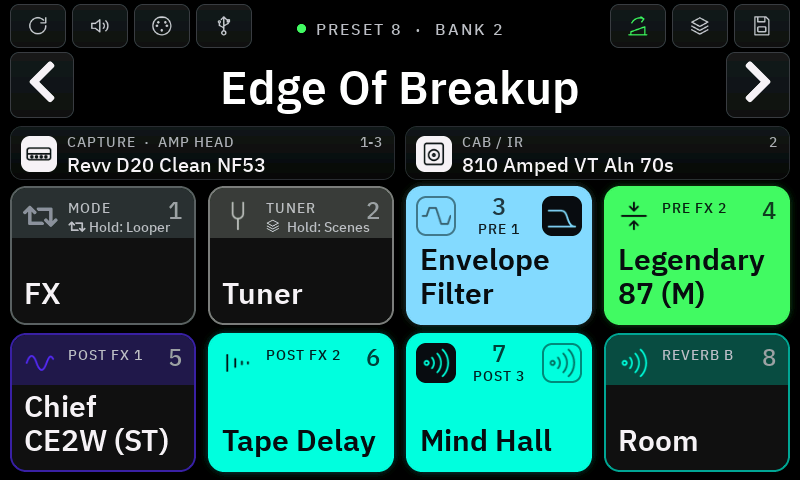
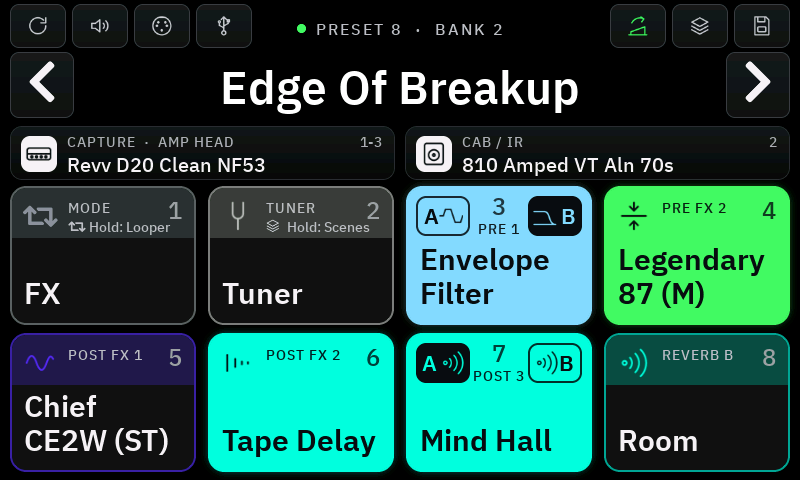
A / B on the tile as lettered chips
Each chip carries its letter and the effect's symbol, the running one filled
and the other framed at full strength: A and B can be told apart when both are
the same effect, and the second one is easy to see.

diff --git a/main/ui.c b/main/ui.c
@@ -783,9 +783,14 @@ static void set_tile(int i, const char *caption, const char *name, uint32_t colo
     set_num_prop(s_tile_caption[i], LV_STYLE_TEXT_ALIGN, LV_TEXT_ALIGN_LEFT);
     set_align_if(s_tile_number[i], LV_ALIGN_TOP_RIGHT, -12, 6);
     set_hidden(s_tile_square_b[i], true);
+    set_num_prop(sq, LV_STYLE_WIDTH, 40);
     set_num_prop(sq, LV_STYLE_BG_OPA, LV_OPA_TRANSP);
     set_num_prop(sq, LV_STYLE_BORDER_WIDTH, 0);
     set_num_prop(img, LV_STYLE_IMAGE_OPA, LV_OPA_COVER);
+    set_align_if(img, LV_ALIGN_CENTER, 0, 0);
+    if (lv_image_get_scale(img) != 256 * 32 / 36) lv_image_set_scale(img, 256 * 32 / 36);
+    set_align_if(sym, LV_ALIGN_CENTER, 0, 0);
+    set_ptr_prop(sym, LV_STYLE_TEXT_FONT, &ui_font_28);
 
     char upper[40];   // captions in small capitals, as the editor's labels
     size_t n = 0;
@@ -801,26 +806,35 @@ static void set_tile(int i, const char *caption, const char *name, uint32_t colo
     set_color_prop(s_tile_name[i], LV_STYLE_TEXT_COLOR, ink);
 }
 
-// One of the two symbols on the tile of a slot with a second effect: the one that runs on a filled square, the
-// other one framed and dimmed.
-static void style_ab_square(lv_obj_t *sq, const nano_fx_model_t *model, const char *letter, bool running, uint32_t mark, uint32_t back)
+// One of the two chips on the tile of a slot with a second effect, as the A | B of a plugin: its letter and the
+// effect's symbol - the one that runs filled, the other one framed. The letter is what tells A from B when both are
+// the same effect with other settings.
+#define AB_CHIP_W 54
+static void style_ab_chip(lv_obj_t *sq, const nano_fx_model_t *model, bool is_b, bool running, uint32_t mark, uint32_t back)
 {
     lv_obj_t *img = lv_obj_get_child(sq, 0), *sym = lv_obj_get_child(sq, 1);
     const lv_image_dsc_t *icon = model ? NANO_ICONS[model->icon] : NULL;
+    uint32_t ink = running ? back : mark;
     set_hidden(sq, false);
+    set_num_prop(sq, LV_STYLE_WIDTH, AB_CHIP_W);
     set_color_prop(sq, LV_STYLE_BG_COLOR, mark);
     set_num_prop(sq, LV_STYLE_BG_OPA, running ? LV_OPA_COVER : LV_OPA_TRANSP);
     set_num_prop(sq, LV_STYLE_BORDER_WIDTH, running ? 0 : 2);
     set_color_prop(sq, LV_STYLE_BORDER_COLOR, mark);
-    set_num_prop(sq, LV_STYLE_BORDER_OPA, 120);
+    set_num_prop(sq, LV_STYLE_BORDER_OPA, 215);
+    // The letters at the outer ends: "A ~" at the left edge of the tile, "~ B" at the right
+    set_ptr_prop(sym, LV_STYLE_TEXT_FONT, &ui_font_title_22);
+    set_text(sym, is_b ? "B" : "A");
+    set_color_prop(sym, LV_STYLE_TEXT_COLOR, ink);
+    set_align_if(sym, icon ? (is_b ? LV_ALIGN_RIGHT_MID : LV_ALIGN_LEFT_MID) : LV_ALIGN_CENTER, icon ? (is_b ? -6 : 6) : 0, 0);
     set_hidden(img, icon == NULL);
     if (icon) {
         set_image(img, icon);
-        set_color_prop(img, LV_STYLE_IMAGE_RECOLOR, running ? back : mark);
-        set_num_prop(img, LV_STYLE_IMAGE_OPA, running ? LV_OPA_COVER : 150);
+        if (lv_image_get_scale(img) != 256 * 26 / 36) lv_image_set_scale(img, 256 * 26 / 36);
+        set_align_if(img, is_b ? LV_ALIGN_LEFT_MID : LV_ALIGN_RIGHT_MID, is_b ? -1 : 1, 0);
+        set_color_prop(img, LV_STYLE_IMAGE_RECOLOR, ink);
+        set_num_prop(img, LV_STYLE_IMAGE_OPA, running ? LV_OPA_COVER : 230);
     }
-    set_text(sym, icon ? "" : letter);   // (a model without a symbol, or A not read yet: its letter)
-    set_color_prop(sym, LV_STYLE_TEXT_COLOR, running ? back : mark);
 }
 
 // The tile of a slot with a second effect (after set_tile): A's symbol at the left edge, B's at the right, the one
@@ -829,12 +843,12 @@ static void set_tile_ab(int i, int slot, uint32_t a_type, uint32_t b_type, bool 
 {
     static const char *const SHORT[NANO_FX_SLOTS] = { "PRE 1", "PRE 2", "POST 1", "POST 2", "POST 3" };
     uint32_t mark = s_tile_accent[i], back = active ? color : TILE_OFF_BG;
-    style_ab_square(s_tile_square[i], nano_fx_model(a_type), "A", !b_runs, mark, back);
-    style_ab_square(s_tile_square_b[i], nano_fx_model(b_type), "B", b_runs, mark, back);
+    style_ab_chip(s_tile_square[i], nano_fx_model(a_type), false, !b_runs, mark, back);
+    style_ab_chip(s_tile_square_b[i], nano_fx_model(b_type), true, b_runs, mark, back);
     set_text(s_tile_caption[i], SHORT[slot]);
-    set_num_prop(s_tile_caption[i], LV_STYLE_X, 52);
+    set_num_prop(s_tile_caption[i], LV_STYLE_X, 8 + AB_CHIP_W + 2);
     set_num_prop(s_tile_caption[i], LV_STYLE_Y, 31);
-    set_num_prop(s_tile_caption[i], LV_STYLE_WIDTH, s_tile_w - 104 - 4);   // (- 4: the tile's border)
+    set_num_prop(s_tile_caption[i], LV_STYLE_WIDTH, s_tile_w - 2 * (8 + AB_CHIP_W + 2) - 4);   // (- 4: the tile's border)
     set_num_prop(s_tile_caption[i], LV_STYLE_TEXT_ALIGN, LV_TEXT_ALIGN_CENTER);
     set_align_if(s_tile_number[i], LV_ALIGN_TOP_MID, 0, 2);
 }
